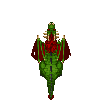
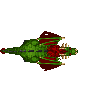
Finished first version of the SM with idle, alarm and following states. Some extra states as attacking could be added to improve overall feeling of demo

Changed region(s): [[0.0, 0.21, 0.78, 1.0]]

diff --git a/game/character.cpp b/game/character.cpp
@@ -17,7 +17,9 @@
 #include "SM/action_change_image.h"
 #include "SM/action_none.h"
 #include "SM/action_find_target.h"
+#include "SM/action_follow_target.h"
 #include "SM/condition_and.h"
+#include "SM/condition_can_move.h"
 #include "SM/condition_found_target.h"
 #include "SM/condition_has_reached.h"
 #include "SM/condition_not.h"
@@ -44,6 +46,7 @@ void Character::OnStart() {
 
 	//mSteerings.push_back(new SeekSteering());
 	mSteerings.push_back(new ArriveSteering());
+	mSteerings.push_back(new AlignToMovementSteering());
 	for (std::vector<Steering*>::iterator it = mSteerings.begin(); it != mSteerings.end();
 	++it) {
 		(*it)->Init(this);
@@ -65,28 +68,35 @@ void Character::OnStart() {
 	Action * aChgImgToWindUp = new ActionChangeImage(this, 2);
 	Action * aFindTarget = new ActionFindTarget(this);
 	Action * aAlarmDelay = new ActionAlarmDelay(this, 2.f);
+	Action * aFollowTarget = new ActionFollowTarget(this);
 
 	//States
 	State * sIdle = new State(aChgImgToIdle, aFindTarget, aNone);
 	State * sAlarm = new State(aChgImgToAlarm, aAlarmDelay, aNone);
-	//State * sWindup = new State(aChgImgToWindUp, aFindTarget, aNone);
+	State * sFollowing = new State(aChgImgToWindUp, aFollowTarget, aNone);
 
 	//Conditions
 	Condition * cFoundTarget = new ConditionFoundTarget(this);
 	Condition * cNotFoundTarget = new ConditionNot(cFoundTarget);//should add some kind of return
 	//selection, so we could use cFoundTarget to enable&disable alarm state
 	Condition * cHasReached = new ConditionHasReached(this, mTarget);
+	Condition * cCanMove = new ConditionCanMove(this);
 
 	//Transitions
 	Transition * tIdleAlarm = new Transition(cFoundTarget, sAlarm, aNone);
 	Transition * tAlarmIdle = new Transition(cHasReached, sIdle, aNone);
+	Transition * tAlarmFollow = new Transition(cCanMove, sFollowing, aNone);
+	Transition * tFollowIdle = new Transition(cHasReached, sIdle, aNone);
 	
 	//SM initialization
 	sIdle->AddTransition(tIdleAlarm);
 	sAlarm->AddTransition(tAlarmIdle);
+	sAlarm->AddTransition(tAlarmFollow);
+	sFollowing->AddTransition(tFollowIdle);
 
 	mStateMachine->AddState(sIdle);
 	mStateMachine->AddState(sAlarm);
+	mStateMachine->AddState(sFollowing);
 	
 	mStateMachine->SetCurrentState(sIdle);
 

diff --git a/game/aligntomovement_steering.cpp b/game/aligntomovement_steering.cpp
@@ -19,18 +19,20 @@ void AlignToMovementSteering::Init(Character * ch) {
 //45deg of img offset
 void AlignToMovementSteering::Update(Accelerations &acc, USVec2D target) {
 	Character * ch = GetCh();
+	if (ch->CanMove()) {
+		USVec2D direction = ch->GetLinearVelocity();
+		if (direction.Length() != 0.f) {
+			direction.Norm();
+			float wishAngVel = 0;
+			if (direction.mX != 0) {
+				wishAngVel = atan2f(direction.mY, direction.mX) * RAD2DEG;
+			}
+			Params &par = ch->GetParams();
+			par.target_rotation = wishAngVel;
+		}
 
-	USVec2D direction = ch->GetLinearVelocity();
-	direction.Norm();
-
-	float wishAngVel = 0;
-	if (direction.mX != 0) {
-		wishAngVel = atan2f(direction.mY, direction.mX) * RAD2DEG;
+		mAlignSteering->Update(acc, target);
 	}
-	Params &par = ch->GetParams();
-	par.target_rotation = wishAngVel;
-
-	mAlignSteering->Update(acc, target);
 }
 
 void AlignToMovementSteering::DrawDebug() {

diff --git a/game/SM/action_alarm_delay.cpp b/game/SM/action_alarm_delay.cpp
@@ -3,8 +3,8 @@
 #include "action_alarm_delay.h"
 #include "character.h"
 
-ActionAlarmDelay::ActionAlarmDelay(Character * character, float delay): m_character(character),
-m_desiredDelay(delay), m_currentDelay(0.f) {}
+ActionAlarmDelay::ActionAlarmDelay(Character * character, double delay): m_character(character),
+m_desiredDelay(delay) {}
 
 void ActionAlarmDelay::Start() {
 	m_startTime = std::time(nullptr);

diff --git a/game/SM/condition_has_reached.cpp b/game/SM/condition_has_reached.cpp
@@ -12,6 +12,8 @@ bool ConditionHasReached::Check() const {
 	USVec2D currPos = m_character->GetLoc();
 	if ((currPos - m_targetPosition).Length() <= ARRIVE_EPSILON) {
 		m_character->SetCanMove(false);
+		m_character->SetIsTargetActive(false);//should it be here or in another action/trans?
+		m_character->SetLinearVelocity(0.f, 0.f);//hotfix. This shouldn't be done here
 		return true;
 	}
 	return false;

diff --git a/game/SM/action_alarm_delay.h b/game/SM/action_alarm_delay.h
@@ -7,13 +7,13 @@ class Character;
 
 class ActionAlarmDelay: public Action {
 public:
-	ActionAlarmDelay(Character * character, float delay);
+	ActionAlarmDelay(Character * character, double delay);
 
 	virtual void Start();
 	virtual void Run();
 	virtual void End();
 private:
-	float m_currentDelay, m_desiredDelay;
+	double m_desiredDelay;
 	time_t m_startTime;
 
 	Character * m_character;

diff --git a/game/character.h b/game/character.h
@@ -46,7 +46,7 @@ public:
 
 	bool IsTargetActive() const { return mIsTargetActive; }
 	//also sets if can move
-	void SetIsTargetActive(bool value) { mIsTargetActive = value; mCanMove = value; }
+	void SetIsTargetActive(bool value) { mIsTargetActive = value; }
 
 	bool CanMove() const { return mCanMove; }
 	void SetCanMove(bool value) { mCanMove = value; }

diff --git a/game/SM/condition_can_move.h b/game/SM/condition_can_move.h
@@ -1,0 +1,17 @@
+#ifndef _CONDITION_CAN_MOVE_H
+#define _CONDITION_CAN_MOVE_H
+
+#include "condition.h"
+
+class Character;
+
+class ConditionCanMove: public Condition {
+public:
+	ConditionCanMove(Character * character);
+
+	virtual bool Check() const;
+private:
+	Character * m_character;
+};
+
+#endif//!_CONDITION_CAN_MOVE_H

diff --git a/game/SM/action_follow_target.cpp b/game/SM/action_follow_target.cpp
@@ -6,6 +6,7 @@ ActionFollowTarget::ActionFollowTarget(Character * character): m_character(chara
 
 void ActionFollowTarget::Start() {}
 
-void ActionFollowTarget::Run() {}
+void ActionFollowTarget::Run() {}//this actually does nothing since movement is handled by
+//ArriveSteering
 
 void ActionFollowTarget::End() {}

diff --git a/game/SM/condition_can_move.cpp b/game/SM/condition_can_move.cpp
@@ -1,0 +1,10 @@
+#include "stdafx.h"
+
+#include "character.h"
+#include "condition_can_move.h"
+
+ConditionCanMove::ConditionCanMove(Character * character): m_character(character) {}
+
+bool ConditionCanMove::Check() const {
+	return m_character->CanMove();
+}
